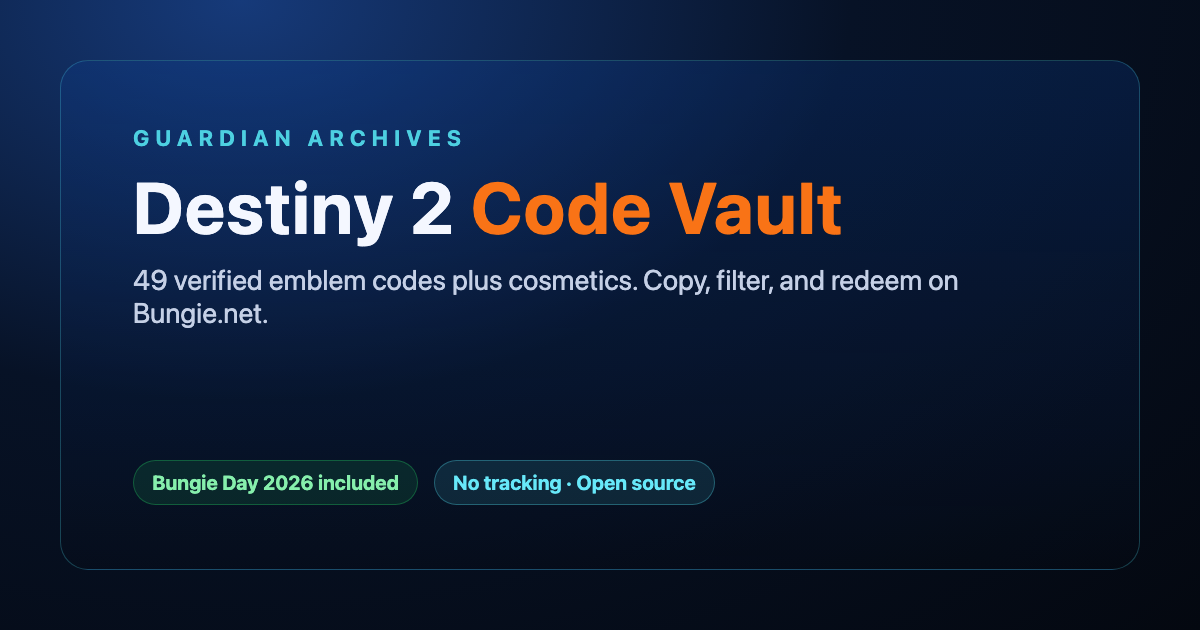
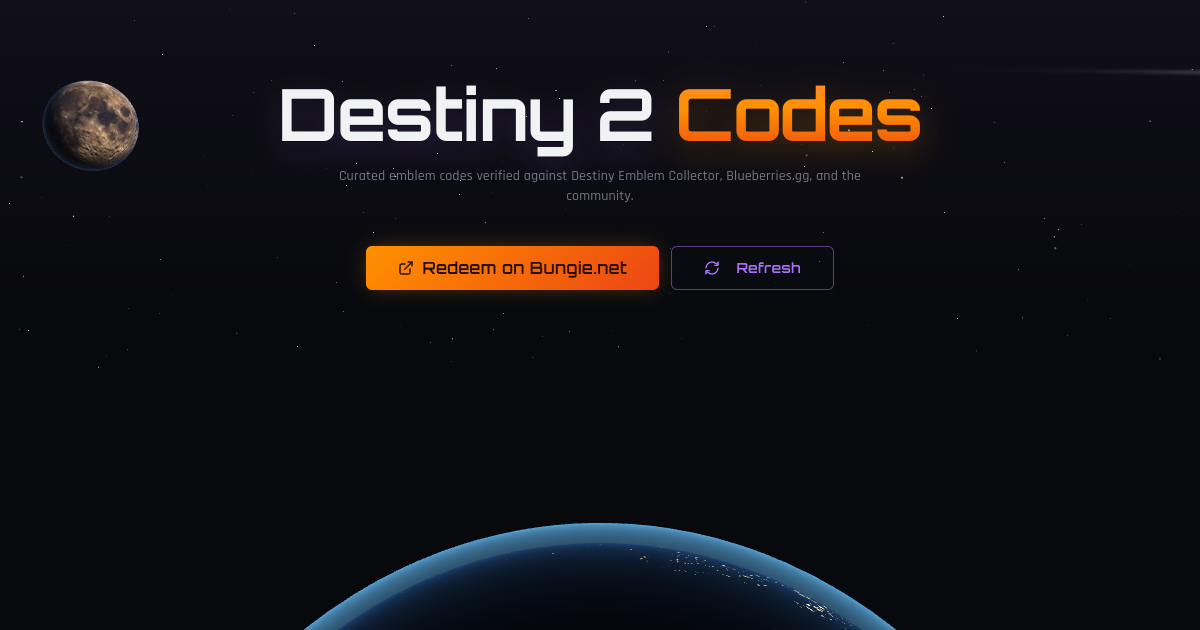
Give the missing page the footer and refresh the share image (#207)
Checked Destiny Emblem Collector on 19 November 2026. The 49 universal codes are already in the catalogue, so no code was added. A missing page keeps About and Privacy in the footer. The share image is the night hero.

diff --git a/src/pages/NotFound.tsx b/src/pages/NotFound.tsx
@@ -1,5 +1,6 @@
 import { Link } from 'react-router-dom';
 import { Header } from '@/components/Header';
+import { SiteFooter } from '@/components/SiteFooter';
 import { useCodeScanner } from '@/hooks/useCodeScanner';
 
 const NotFound = () => {
@@ -7,15 +8,16 @@ const NotFound = () => {
   const activeCount = codes.filter((code) => code.status === 'active').length;
 
   return (
-    <div className="min-h-screen">
+    <div className="flex min-h-screen flex-col">
       <Header onAddCode={addManualCode} activeCount={activeCount} totalCount={codes.length} />
-      <main className="container mx-auto px-4 py-24 text-center">
+      <main className="container mx-auto flex flex-1 flex-col items-center justify-center px-4 py-24 text-center">
         <h1 className="font-heading text-5xl font-bold text-foreground title-shadow">404</h1>
         <p className="mb-6 mt-4 text-xl text-muted-foreground">That page is not in the vault.</p>
         <Link to="/" className="text-accent underline decoration-accent/40 underline-offset-4 hover:text-accent/80">
           Return to the catalogue
         </Link>
       </main>
+      <SiteFooter />
     </div>
   );
 };

diff --git a/README.md b/README.md
@@ -315,6 +315,14 @@ This release directly addresses community feedback from [r/DestinyTheGame](https
 ### Version
 - Bumped `package.json` version to **2.4.0**
 
+## 📋 v2.10.5 Updates (November 2026)
+
+The missing page uses the same footer as the rest of the vault, and the share image shows the night hero.
+
+- Checked Destiny Emblem Collector on 19 November 2026. All 49 universal codes are already in the catalogue. No code was added.
+- A missing page keeps About and Privacy in the footer.
+- The Open Graph image is the current night hero.
+
 ## 📋 v2.10.4 Updates (November 2026)
 
 Light mode is a dim dusk slate, and the pointer trail uses the same Void, Arc, and Solar colors as the rest of the vault.
